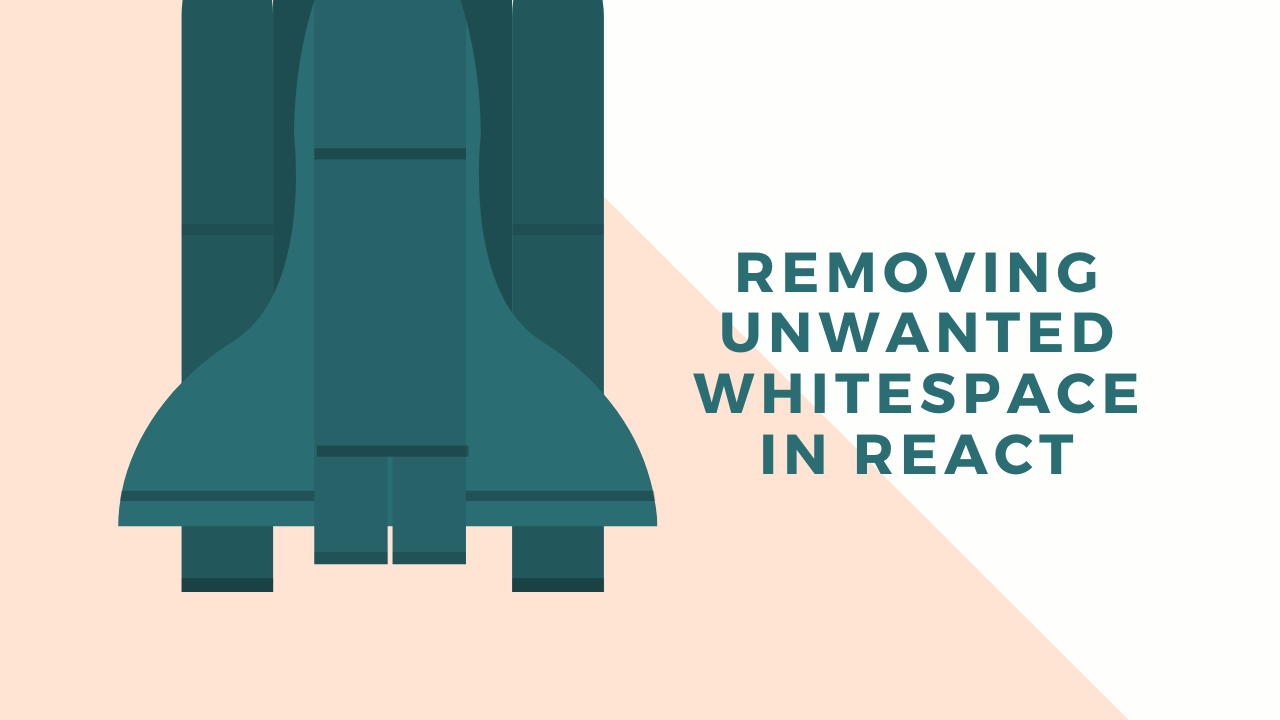
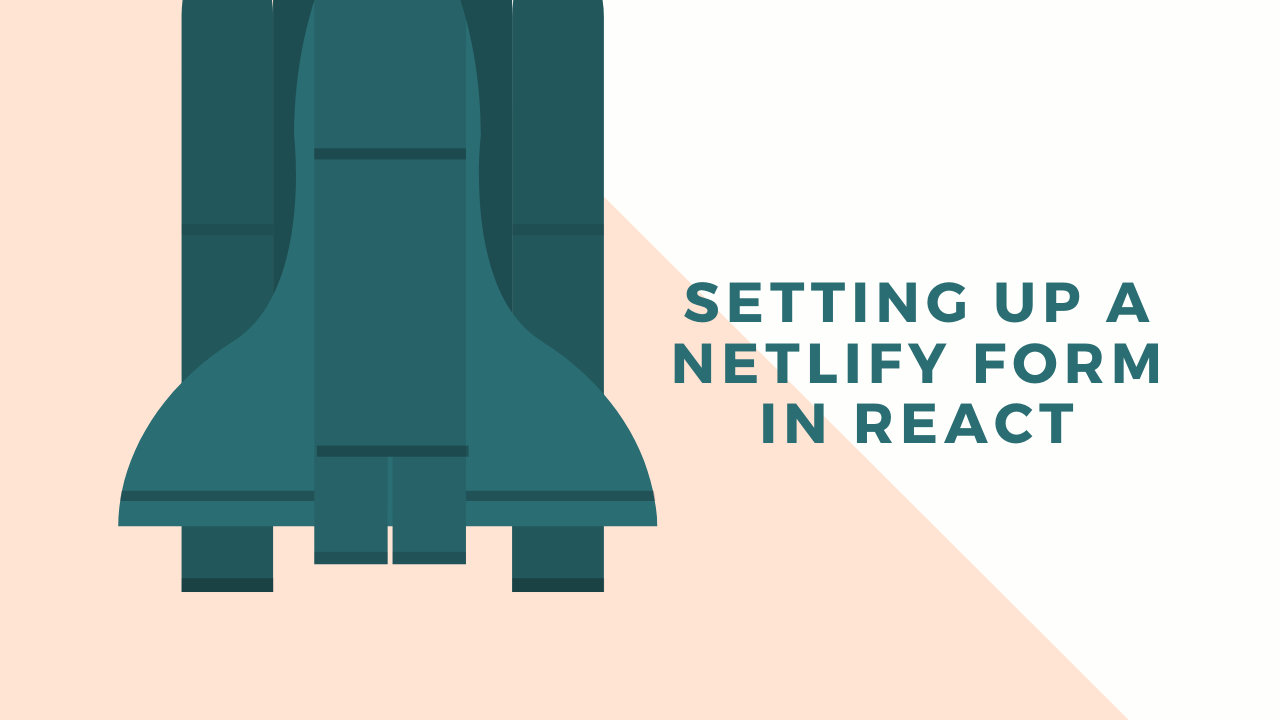
added article templates

Changed region(s): [[0.5, 0.3361, 0.9062, 0.6722]]

diff --git a/src/components/pages/Shorts.js b/src/components/pages/Shorts.js
@@ -1,6 +1,7 @@
 import React from 'react';
-import { Container, Row, Col } from 'react-bootstrap';
+import { Container, Row, Col, Card, Image, Button } from 'react-bootstrap';
 import { Helmet } from 'react-helmet';
+import placeholder2 from '../../img/placeholder2.png';
 
 const Shorts = () => {
   return (
@@ -13,13 +14,61 @@ const Shorts = () => {
         <Row>
           <Col md={12}>
             <h3>
-              <strong>Notes</strong>
+              <strong>Shorts</strong>
             </h3>
+            <p>Quick tips, tricks, and hacks.</p>
             <hr />
-            <p>This is the Shorts page.</p>
             <br />
           </Col>
         </Row>
+
+        <Row>
+          <Col md={12}>
+            <Card style={{ marginBottom: '40px' }}>
+              <Card.Body>
+                <Card.Title>
+                  <strong>Removing Unwanted Whitespace in React</strong>
+                </Card.Title>
+
+                <Image
+                  src={placeholder2}
+                  style={{
+                    width: '35%',
+                    height: 'auto',
+                    float: 'right',
+                    marginLeft: '10px',
+                  }}
+                  fluid
+                />
+                <Card.Text>
+                  <p>
+                    Lorem Ipsum is simply dummy text of the printing and
+                    typesetting industry. Lorem Ipsum has been the industry's
+                    standard dummy text ever since the 1500s, when an unknown
+                    printer took a galley of type and scrambled it to make a
+                    type specimen book.
+                  </p>
+                  <p>
+                    It was popularised in the 1960s with the release of Letraset
+                    sheets containing Lorem Ipsum passages, and more recently
+                    with desktop publishing software like Aldus PageMaker
+                    including versions of Lorem Ipsum.
+                  </p>
+                </Card.Text>
+                <Button
+                  className='button'
+                  variant='success'
+                  href='/shorts/removing-unwanted-whitespace-in-react'
+                  style={{ marginRight: '5px' }}
+                >
+                  Read More
+                </Button>
+              </Card.Body>
+            </Card>
+          </Col>
+        </Row>
+
+        <br />
       </Container>
     </div>
   );

diff --git a/src/App.js b/src/App.js
@@ -5,6 +5,9 @@ import Home from './components/pages/Home';
 import Guides from './components/pages/Guides';
 import Shorts from './components/pages/Shorts';
 import Error from './components/pages/Error';
+import NetlifyFormReact from './components/pages/NetlifyFormReact';
+import WhitespaceReact from './components/pages/WhitespaceReact';
+
 import Navigation from './components/layout/Navigation';
 import 'bootstrap/dist/css/bootstrap.min.css';
 import './App.css';
@@ -21,6 +24,17 @@ const App = () => {
               <Route exact path='/home' component={Home} />
               <Route exact path='/guides' component={Guides} />
               <Route exact path='/shorts' component={Shorts} />
+
+              <Route
+                exact
+                path='/guides/setting-up-a-netlify-form-in-react'
+                component={NetlifyFormReact}
+              />
+              <Route
+                exact
+                path='/shorts/removing-unwanted-whitespace-in-react'
+                component={WhitespaceReact}
+              />
               <Route component={Error} />
             </Switch>
           </div>

diff --git a/src/components/pages/WhitespaceReact.js b/src/components/pages/WhitespaceReact.js
@@ -1,0 +1,35 @@
+import React from 'react';
+import { Container, Row, Col } from 'react-bootstrap';
+import { Helmet } from 'react-helmet';
+
+const WhitespaceReact = () => {
+  return (
+    <div>
+      <Helmet>
+        <title>Dev Blog | Removing Unwanted Whitespace in React</title>
+      </Helmet>
+      <Container className='container' fluid>
+        <br />
+        <Row>
+          <Col md={12}>
+            <h3>
+              <strong>Removing Unwanted Whitespace in React</strong>
+            </h3>
+            <hr />
+            <br />
+            <p>
+              {' '}
+              Lorem Ipsum is simply dummy text of the printing and typesetting
+              industry. Lorem Ipsum has been the industry's standard dummy text
+              ever since the 1500s, when an unknown printer took a galley of
+              type and scrambled it to make a type specimen book.
+            </p>
+            <br />
+          </Col>
+        </Row>
+      </Container>
+    </div>
+  );
+};
+
+export default WhitespaceReact;

diff --git a/src/components/pages/NetlifyFormReact.js b/src/components/pages/NetlifyFormReact.js
@@ -1,0 +1,35 @@
+import React from 'react';
+import { Container, Row, Col } from 'react-bootstrap';
+import { Helmet } from 'react-helmet';
+
+const NetlifyFormReact = () => {
+  return (
+    <div>
+      <Helmet>
+        <title>Dev Blog | Setting up a Netlify Form in React</title>
+      </Helmet>
+      <Container className='container' fluid>
+        <br />
+        <Row>
+          <Col md={12}>
+            <h3>
+              <strong>Setting up a Netlify Form in React</strong>
+            </h3>
+            <hr />
+            <br />
+            <p>
+              {' '}
+              Lorem Ipsum is simply dummy text of the printing and typesetting
+              industry. Lorem Ipsum has been the industry's standard dummy text
+              ever since the 1500s, when an unknown printer took a galley of
+              type and scrambled it to make a type specimen book.
+            </p>
+            <br />
+          </Col>
+        </Row>
+      </Container>
+    </div>
+  );
+};
+
+export default NetlifyFormReact;

diff --git a/src/components/pages/Guides.js b/src/components/pages/Guides.js
@@ -16,8 +16,8 @@ const Guides = () => {
             <h3>
               <strong>Guides</strong>
             </h3>
-            <hr />
             <p>This is the Guides page.</p>
+            <hr />
             <br />
           </Col>
         </Row>
@@ -27,7 +27,7 @@ const Guides = () => {
             <Card style={{ marginBottom: '40px' }}>
               <Card.Body>
                 <Card.Title>
-                  <strong>Removing Unwanted Whitespace in React</strong>
+                  <strong>Setting up a Netlify Form in React</strong>
                 </Card.Title>
 
                 <Image
@@ -58,7 +58,7 @@ const Guides = () => {
                 <Button
                   className='button'
                   variant='success'
-                  href='/guides'
+                  href='/guides/setting-up-a-netlify-form-in-react'
                   style={{ marginRight: '5px' }}
                 >
                   Read More
